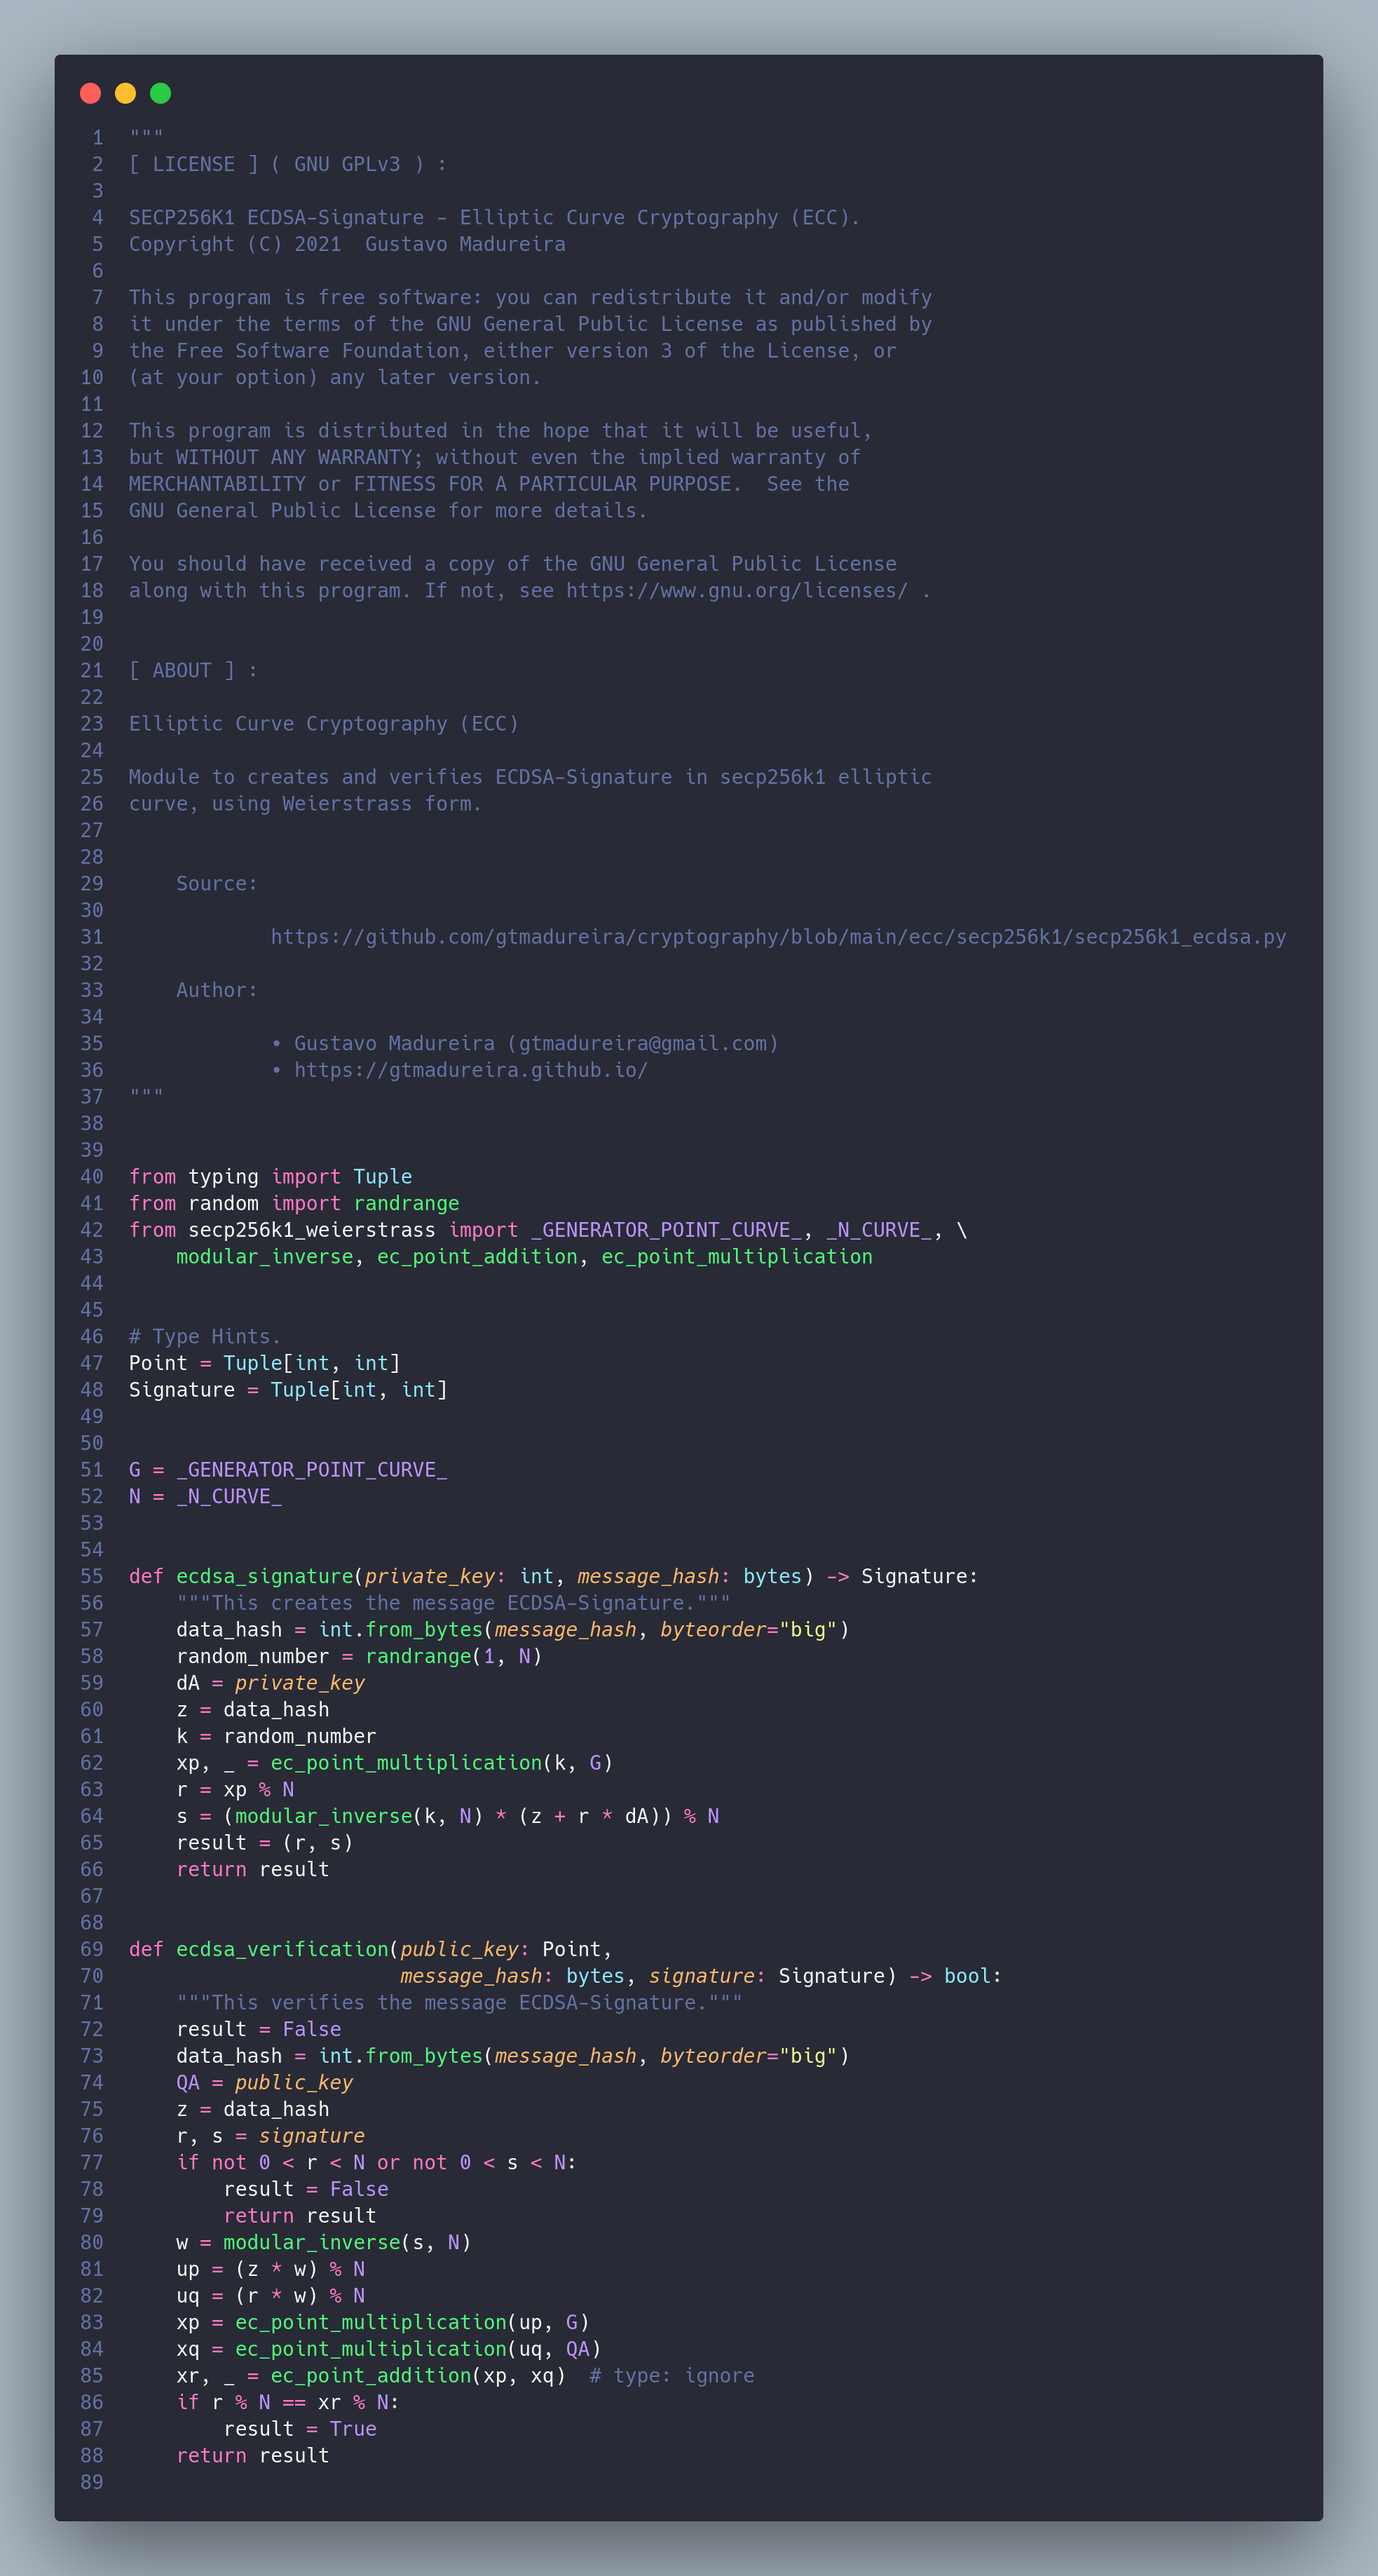
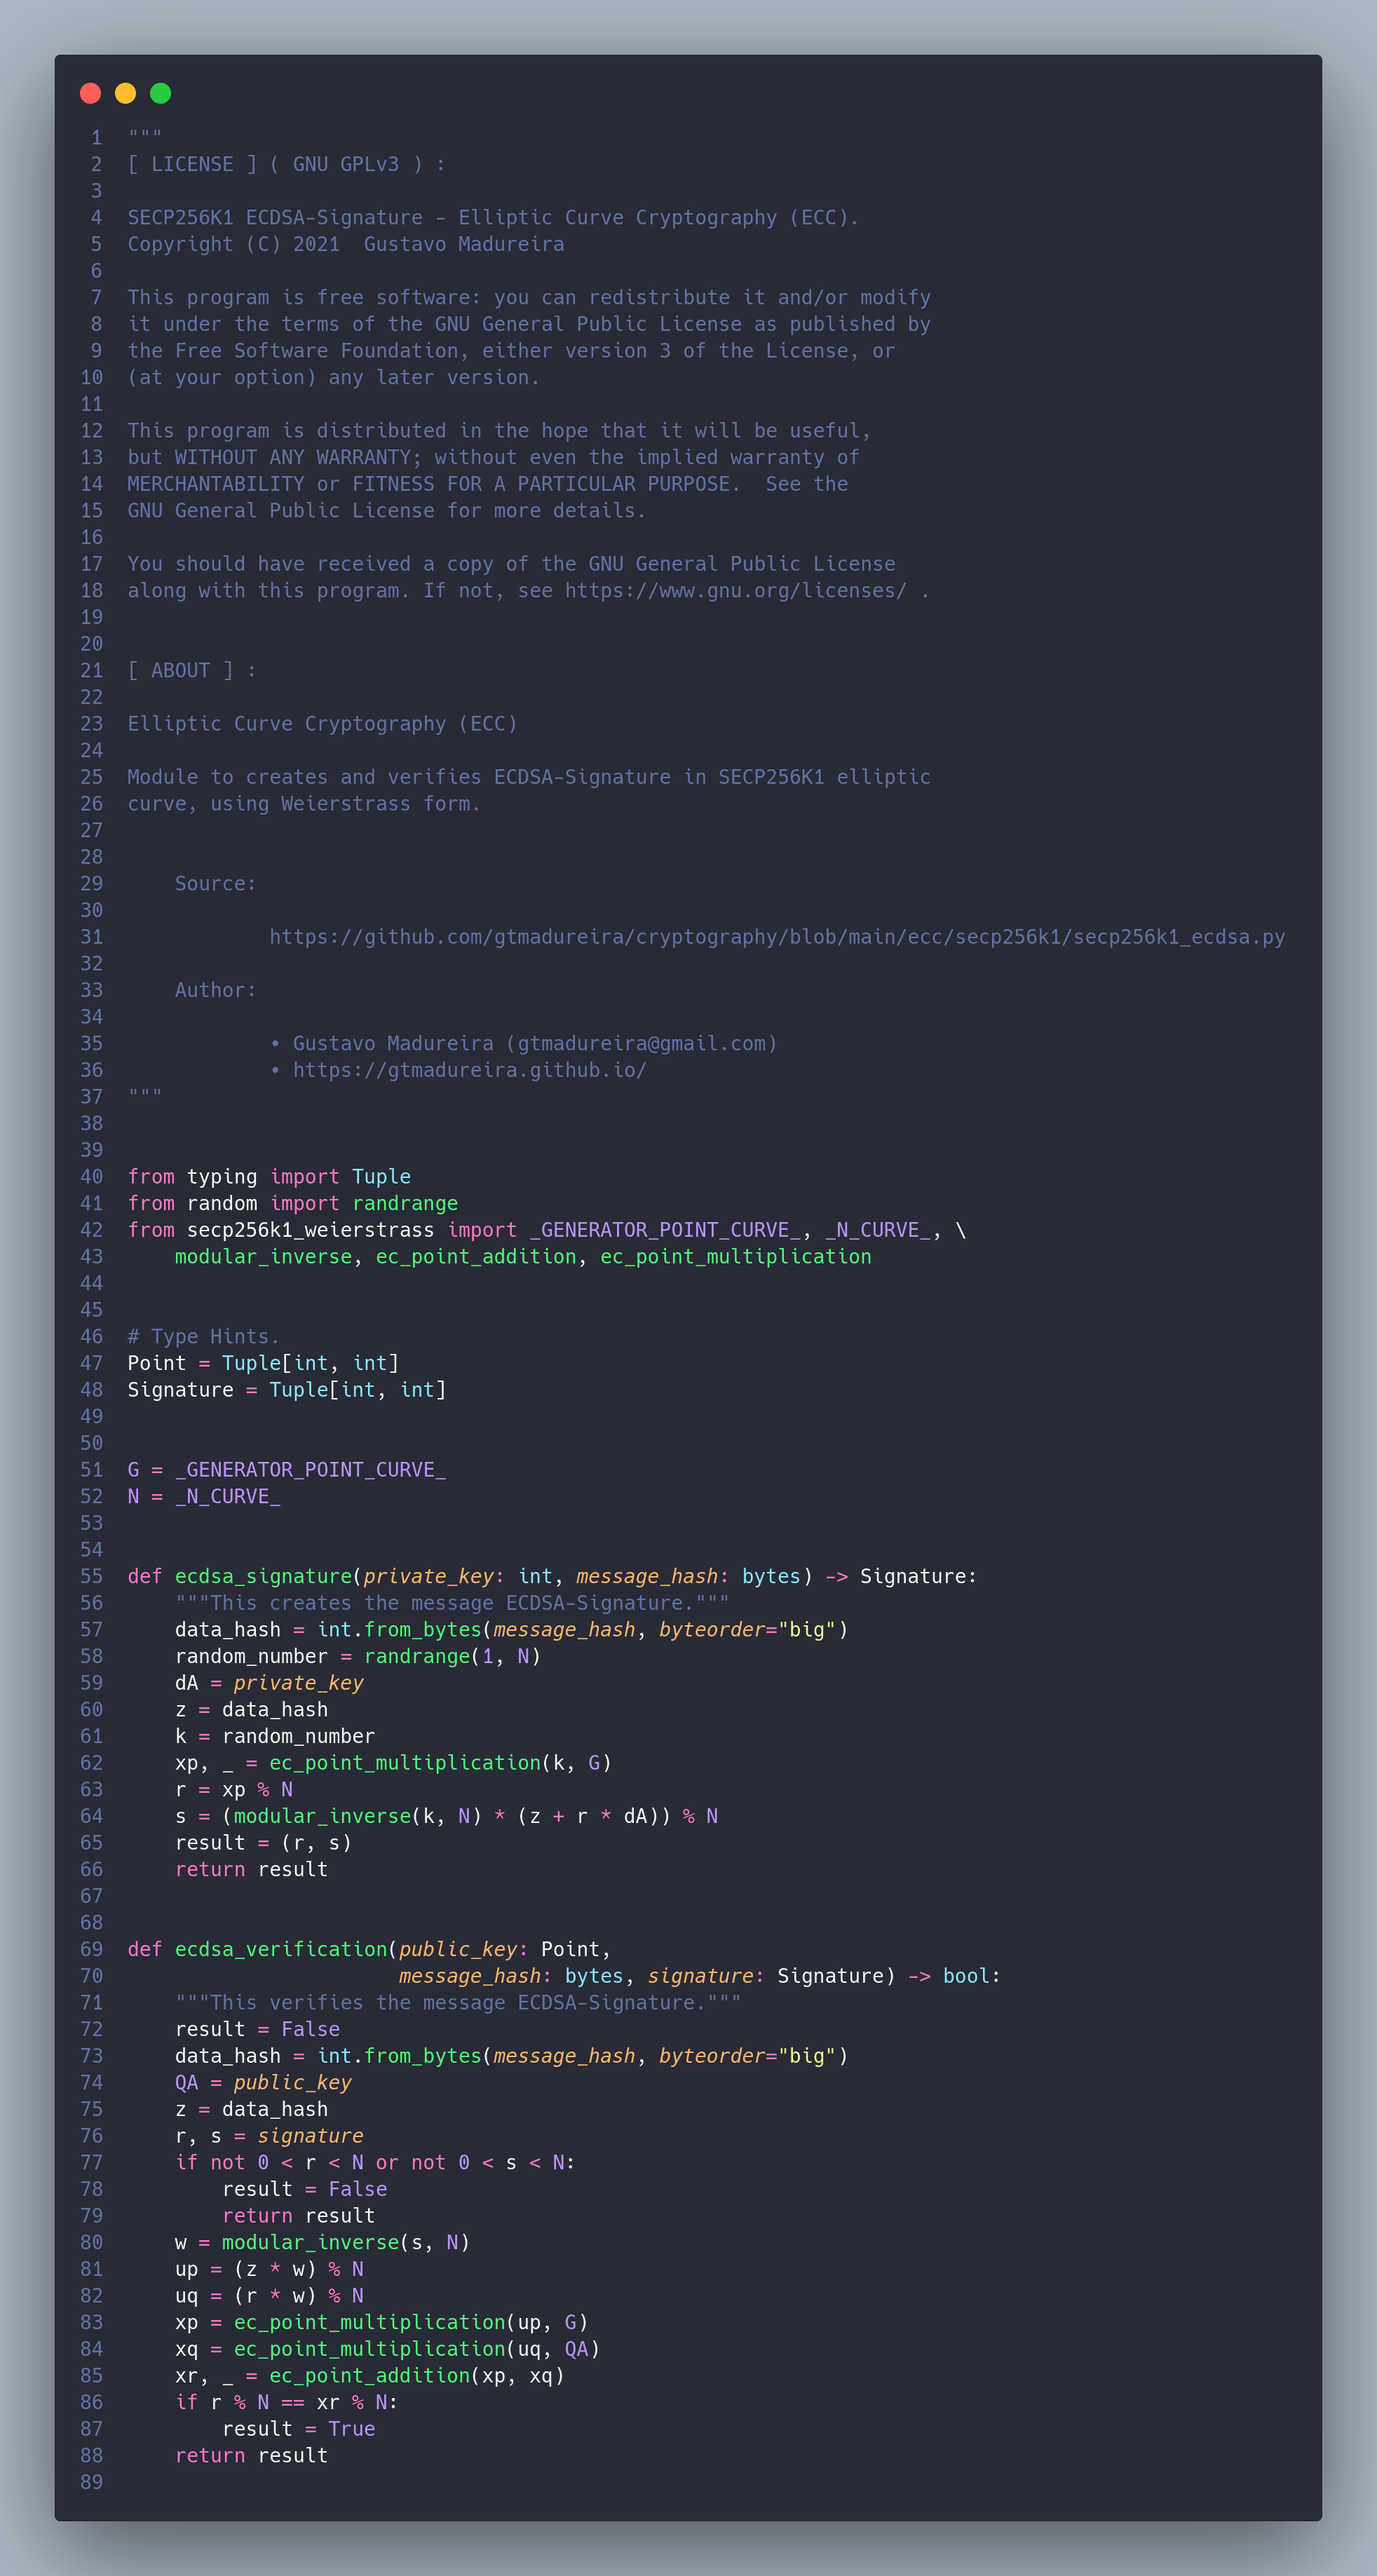
Elliptic Curve Cryptography (ECC), with curve secp256k1.

diff --git a/ecc/secp256k1/secp256k1_weierstrass.py b/ecc/secp256k1/secp256k1_weierstrass.py
@@ -22,7 +22,7 @@ along with this program. If not, see https://www.gnu.org/licenses/ .
 
 Elliptic Curve Cryptography (ECC)
 
-Module to generate Public Key from elliptic curve secp256k1,
+Module to generate Public Key from elliptic curve SECP256K1,
 using Weierstrass Form.
 
 (Curve used in Bitcoin cryptocurrency)
@@ -38,7 +38,7 @@ using Weierstrass Form.
 """
 
 
-from typing import Optional, Tuple
+from typing import Tuple
 
 
 # Type Hints.
@@ -52,7 +52,7 @@ def int_from_hex(hexadecimal_string: str) -> int:
     return result
 
 
-#       Mathematical domain parameters of the elliptic curve secp256k1.
+#       Mathematical domain parameters of the elliptic curve SECP256K1.
 #       Source: https://www.secg.org/sec2-v2.pdf
 
 
@@ -88,7 +88,7 @@ _H_CURVE_ = int_from_hex(
 
 
 # The point that points to infinity in elliptic curve is defined by:
-_POINT_INFINITY_CURVE_ = None
+_POINT_INFINITY_CURVE_ = (0, 0)
 
 
 def modular_inverse(k: int, p: int) -> int:
@@ -130,7 +130,7 @@ def modular_inverse(k: int, p: int) -> int:
     return result
 
 
-def is_infinite(point: Optional[Point]) -> bool:
+def is_infinite(point: Point) -> bool:
     """
     Returns whether or not it is the point at infinity in elliptic
     curve.
@@ -139,12 +139,12 @@ def is_infinite(point: Optional[Point]) -> bool:
     return result
 
 
-def is_on_curve(point: Optional[Point]) -> bool:
+def is_on_curve(point: Point) -> bool:
     """Returns True if the given point lies on the elliptic curve."""
     if is_infinite(point):
         result = True
         return result
-    xp, yp = point  # type: ignore
+    xp, yp = point
     result = (yp ** 2 - xp ** 3 - _A_CURVE_ * xp - _B_CURVE_) % _FP_CURVE_ == 0
     return result
 
@@ -156,7 +156,8 @@ def x(point: Point) -> int:
     """
     assert not is_infinite(point)
     assert is_on_curve(point)
-    result = point[0]
+    xp, _ = point
+    result = xp
     return result
 
 
@@ -167,22 +168,24 @@ def y(point: Point) -> int:
     """
     assert not is_infinite(point)
     assert is_on_curve(point)
-    result = point[1]
+    _, yp = point
+    result = yp
     return result
 
 
 def has_even_y(point: Point) -> bool:
     """
     Where the point is not is_infinite(point),
-    it returns y(point) mod 2 = 0.
+    it returns yp mod 2 = 0.
     """
     assert not is_infinite(point)
     assert is_on_curve(point)
-    result = y(point) % 2 == 0
+    _, yp = point
+    result = yp % 2 == 0
     return result
 
 
-def ec_point_doubling(point_p: Optional[Point]) -> Optional[Point]:
+def ec_point_doubling(point_p: Point) -> Point:
     """
     Point doubling in elliptic curve.
 
@@ -192,7 +195,7 @@ def ec_point_doubling(point_p: Optional[Point]) -> Optional[Point]:
     if is_infinite(point_p):
         result = _POINT_INFINITY_CURVE_
         return result
-    xp, yp = point_p  # type: ignore
+    xp, yp = point_p
     if 0 in {xp, yp}:
         result = _POINT_INFINITY_CURVE_
         return result
@@ -205,8 +208,7 @@ def ec_point_doubling(point_p: Optional[Point]) -> Optional[Point]:
     return result
 
 
-def ec_point_addition(point_p: Optional[Point],
-                      point_q: Optional[Point]) -> Optional[Point]:
+def ec_point_addition(point_p: Point, point_q: Point) -> Point:
     """
     Point addition in elliptic curve.
 
@@ -220,8 +222,8 @@ def ec_point_addition(point_p: Optional[Point],
     if is_infinite(point_q):
         result = point_p
         return result
-    xp, yp = point_p  # type: ignore
-    xq, yq = point_q  # type: ignore
+    xp, yp = point_p
+    xq, yq = point_q
     if xp == xq and yp != yq:
         result = _POINT_INFINITY_CURVE_
         return result
@@ -229,9 +231,8 @@ def ec_point_addition(point_p: Optional[Point],
         if 0 in {xp, yp}:
             result = _POINT_INFINITY_CURVE_
             return result
-        else:
-            result = ec_point_doubling(point_p)
-            return result
+        result = ec_point_doubling(point_p)
+        return result
     slope = ((yq - yp) * modular_inverse(xq - xp, _FP_CURVE_)) % _FP_CURVE_
     xr = (slope ** 2 - xp - xq) % _FP_CURVE_
     yr = (slope * (xp - xr) - yp) % _FP_CURVE_
@@ -240,27 +241,25 @@ def ec_point_addition(point_p: Optional[Point],
     return result
 
 
-def ec_point_multiplication(scalar: int, point: Optional[Point]) -> Point:
+def ec_point_multiplication(scalar: int, point: Point) -> Point:
     """
     Scalar point multiplication in elliptic curve.
 
     It doubles Point-P and adds Point-P with Point-Q.
     """
     assert is_on_curve(point)
-    if not 0 < scalar < _N_CURVE_:
-        raise Exception("Invalid Scalar/Private Key!")
-    if point is None or 0 in {point[0], point[1]}:
-        raise Exception("""
-            None (Generator/Base Point) has been provided
-            or points to infinity on the elliptic curve!
-            """)
-    result = None
-    scalarbin = bin(scalar)[2:]
+    if scalar == 0 or is_infinite(point) or 0 in point:
+        result = _POINT_INFINITY_CURVE_
+        return result
+    if scalar < 0 or scalar >= _N_CURVE_:
+        result = ec_point_multiplication(scalar % _N_CURVE_, point)
+        return result
+    scalar_binary = bin(scalar)[2:]
     current = point
-    for i in range(1, len(scalarbin)):
-        current = ec_point_doubling(current)  # type: ignore
-        if scalarbin[i] == "1":
-            current = ec_point_addition(point, current)  # type: ignore
+    for i in range(1, len(scalar_binary)):
+        current = ec_point_doubling(current)
+        if scalar_binary[i] == "1":
+            current = ec_point_addition(point, current)
     result = current
     assert is_on_curve(result)
     return result

diff --git a/ecc/secp256k1/secp256k1_jacobian.py b/ecc/secp256k1/secp256k1_jacobian.py
@@ -22,7 +22,7 @@ along with this program. If not, see https://www.gnu.org/licenses/ .
 
 Elliptic Curve Cryptography (ECC)
 
-Module to generate Public Key from elliptic curve secp256k1,
+Module to generate Public Key from elliptic curve SECP256K1,
 using Jacobian Form.
 
 (Curve used in Bitcoin cryptocurrency)
@@ -38,7 +38,7 @@ using Jacobian Form.
 """
 
 
-from typing import Optional, Tuple
+from typing import Tuple
 
 
 # Type Hints.
@@ -53,7 +53,7 @@ def int_from_hex(hexadecimal_string: str) -> int:
     return result
 
 
-#       Mathematical domain parameters of the elliptic curve secp256k1.
+#       Mathematical domain parameters of the elliptic curve SECP256K1.
 #       Source: https://www.secg.org/sec2-v2.pdf
 
 
@@ -89,7 +89,7 @@ _H_CURVE_ = int_from_hex(
 
 
 # The point that points to infinity in elliptic curve is defined by:
-_POINT_INFINITY_CURVE_ = None
+_POINT_INFINITY_CURVE_ = (0, 0)
 
 
 # The point that points to infinity in elliptic curve over Jacobian
@@ -136,7 +136,7 @@ def modular_inverse(k: int, p: int) -> int:
     return result
 
 
-def is_infinite(point: Optional[Point]) -> bool:
+def is_infinite(point: Point) -> bool:
     """
     Returns whether or not it is the point at infinity in elliptic
     curve.
@@ -145,12 +145,12 @@ def is_infinite(point: Optional[Point]) -> bool:
     return result
 
 
-def is_on_curve(point: Optional[Point]) -> bool:
+def is_on_curve(point: Point) -> bool:
     """Returns True if the given point lies on the elliptic curve."""
     if is_infinite(point):
         result = True
         return result
-    xp, yp = point  # type: ignore
+    xp, yp = point
     result = (yp ** 2 - xp ** 3 - _A_CURVE_ * xp - _B_CURVE_) % _FP_CURVE_ == 0
     return result
 
@@ -162,7 +162,8 @@ def x(point: Point) -> int:
     """
     assert not is_infinite(point)
     assert is_on_curve(point)
-    result = point[0]
+    xp, _ = point
+    result = xp
     return result
 
 
@@ -173,18 +174,20 @@ def y(point: Point) -> int:
     """
     assert not is_infinite(point)
     assert is_on_curve(point)
-    result = point[1]
+    _, yp = point
+    result = yp
     return result
 
 
 def has_even_y(point: Point) -> bool:
     """
     Where the point is not is_infinite(point),
-    it returns y(point) mod 2 = 0.
+    it returns yp mod 2 = 0.
     """
     assert not is_infinite(point)
     assert is_on_curve(point)
-    result = y(point) % 2 == 0
+    _, yp = point
+    result = yp % 2 == 0
     return result
 
 
@@ -219,11 +222,12 @@ def is_affine_jacobian(point: Jacobian_Coordinate) -> bool:
     coordinate (x, y, 1).
     """
     assert not is_infinite_jacobian(point)
-    result = point[2] == 1
+    _, _, zp = point
+    result = zp == 1
     return result
 
 
-def to_jacobian(point: Optional[Point]) -> Jacobian_Coordinate:
+def to_jacobian(point: Point) -> Jacobian_Coordinate:
     """
     Convert an affine point to Jacobian coordinate, or (0, 1, 0) if at
     infinity.
@@ -234,15 +238,15 @@ def to_jacobian(point: Optional[Point]) -> Jacobian_Coordinate:
     if is_infinite(point):
         result = _POINT_INFINITY_JACOBIAN_
         return result
-    xp, yp = point  # type: ignore
+    xp, yp = point
     xp, yp, zp = (xp, yp, 1)
     result = (xp, yp, zp)
     return result
 
 
-def from_jacobian(point: Jacobian_Coordinate) -> Optional[Point]:
+def from_jacobian(point: Jacobian_Coordinate) -> Point:
     """
-    Convert a Jacobian coordinate to affine point, or None if at
+    Convert a Jacobian coordinate to affine point, or (0, 0) if at
     infinity.
 
     An affine point is represented as (x, y).
@@ -385,8 +389,7 @@ def jacobian_point_addition(
     return result
 
 
-def jacobian_point_multiplication(scalar: int,
-                                  point: Optional[Point]) -> Point:
+def jacobian_point_multiplication(scalar: int, point: Point) -> Point:
     """
     Scalar point multiplication in elliptic curve, using Jacobian
     coordinate (x, y, z).
@@ -394,25 +397,23 @@ def jacobian_point_multiplication(scalar: int,
     It doubles Point-P and adds Point-P with Point-Q.
     """
     assert is_on_curve(point)
-    if not 0 < scalar < _N_CURVE_:
-        raise Exception("Invalid Scalar/Private Key!")
-    if point is None or 0 in {point[0], point[1]}:
-        raise Exception("""
-            None (Generator/Base Point) has been provided
-            or points to infinity on the elliptic curve!
-            """)
-    result = None
-    scalarbin = bin(scalar)[2:]
+    if scalar == 0 or is_infinite(point) or 0 in point:
+        result = _POINT_INFINITY_CURVE_
+        return result
+    if scalar < 0 or scalar >= _N_CURVE_:
+        result = jacobian_point_multiplication(scalar % _N_CURVE_, point)
+        return result
+    scalar_binary = bin(scalar)[2:]
     jacobian = to_jacobian(point)
     current = jacobian
-    for i in range(1, len(scalarbin)):
+    for i in range(1, len(scalar_binary)):
         current = jacobian_point_doubling(current)
-        if scalarbin[i] == "1":
+        if scalar_binary[i] == "1":
             current = jacobian_point_addition(jacobian, current)
     affine = from_jacobian(current)
     result = affine
     assert is_on_curve(result)
-    return result  # type: ignore
+    return result
 
 
 if __name__ == "__main__":

diff --git a/ecc/secp256k1/secp256k1_ecdsa.py b/ecc/secp256k1/secp256k1_ecdsa.py
@@ -22,7 +22,7 @@ along with this program. If not, see https://www.gnu.org/licenses/ .
 
 Elliptic Curve Cryptography (ECC)
 
-Module to creates and verifies ECDSA-Signature in secp256k1 elliptic
+Module to creates and verifies ECDSA-Signature in SECP256K1 elliptic
 curve, using Weierstrass form.
 
 
@@ -82,7 +82,7 @@ def ecdsa_verification(public_key: Point,
     uq = (r * w) % N
     xp = ec_point_multiplication(up, G)
     xq = ec_point_multiplication(uq, QA)
-    xr, _ = ec_point_addition(xp, xq)  # type: ignore
+    xr, _ = ec_point_addition(xp, xq)
     if r % N == xr % N:
         result = True
     return result
